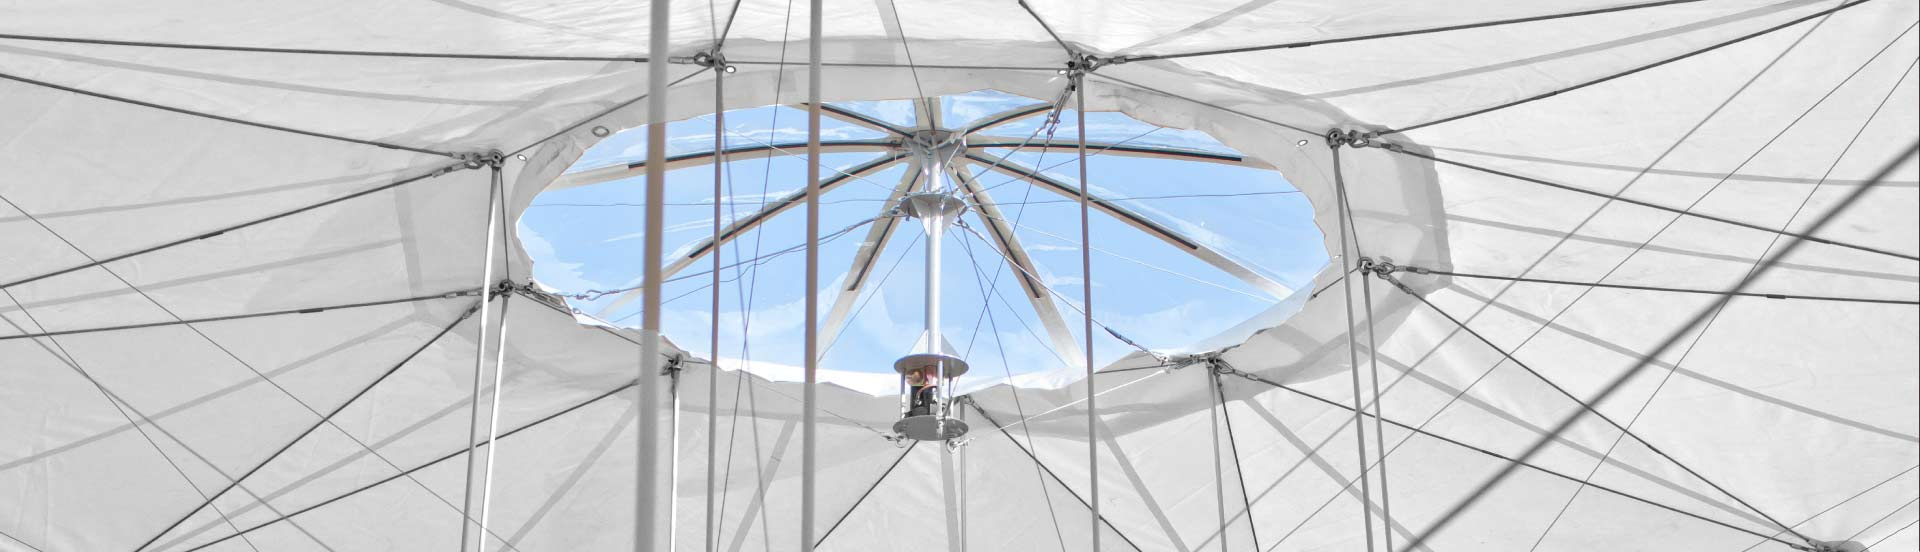
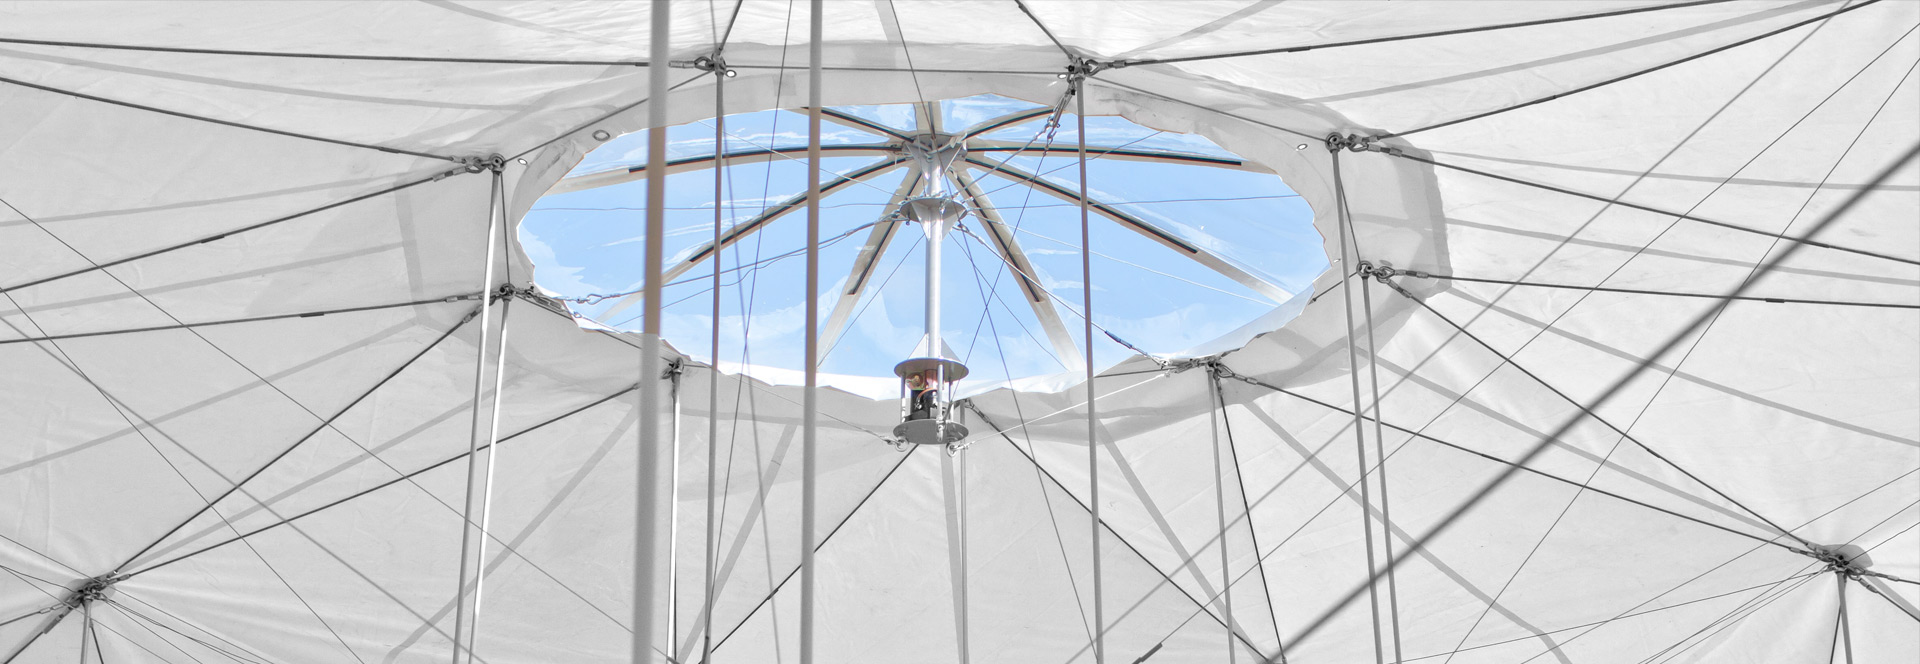
paralax

diff --git a/index.html b/index.html
@@ -4,6 +4,10 @@
     <meta charset="utf-8"/>
     <meta name="viewport" content="width=device-width, initial-scale=1, maximum-scale=1">
 
+    <link rel="icon" type="image/png" href="favicon-64x64.png" sizes="64x64" />
+    <link rel="icon" type="image/png" href="favicon-32x32.png" sizes="32x32" />
+    <link rel="icon" type="image/png" href="favicon-16x16.png" sizes="16x16" />
+
     <link rel="stylesheet" type="text/css" href="./style/bootstrap.min.css"/>
     <link rel="stylesheet" type="text/css" href="./style/main.css"/>
     <script src="./js/jquery.min.js"></script>
@@ -12,7 +16,7 @@
 
 
 <body>
-<header class="background-header" style="background-image: url('./assets/img/front.jpg')">
+<header class="background-header" style="background-image: url('./assets/img/front1.jpg')">
     <div class="header-titles">
         <img src="./assets/img/logo-text-white.png" alt="text-logo">
         <h1 class="h6 mb-0 font-weight-light text-right mt-4">Wynajem namiotów eventowych</h1>
@@ -54,7 +58,19 @@
     <section class="container mt-5">
         <div class="row">
             <div class="col-sm-6">
-                <div class="article-img w-100 h-100" style="background-image: url('./assets/img/glowna1.jpg')"></div>
+                <div id="carouselExampleSlidesOnly" class="carousel slide" data-ride="carousel">
+                    <div class="carousel-inner">
+                        <div class="carousel-item active">
+                            <img class="d-block w-100" src="./assets/img/span1.jpg" alt="First slide">
+                        </div>
+                        <div class="carousel-item">
+                            <img class="d-block w-100" src="./assets/img/span2.jpg" alt="Second slide">
+                        </div>
+                        <div class="carousel-item">
+                            <img class="d-block w-100" src="./assets/img/span3.jpg" alt="Third slide">
+                        </div>
+                    </div>
+                </div>
             </div>
             <article class="col-sm-6">
                 <h6 class="mb-4">HARMONIA GEOMETRII</h6>
@@ -209,6 +225,15 @@
     <span><a href="javascript:void;" id="acceptCookies">Akceptuję</a> politykę cookies. <a href="rodo.html" target="_blank">Link do RODO</a></span>
 </div>
 <script>
+    (function(){
+        window.addEventListener('scroll', function() {
+            var paralaxOne = document.querySelector('.background-header');
+
+            var scrollY = window.scrollY;
+            paralaxOne.style.backgroundPositionY = (scrollY / 10 ) + 'px';
+        });
+    }());
+
     const cookiesAccepted = localStorage.getItem('cookies');
     if (cookiesAccepted) {
         $('#cookiesBox').hide()

diff --git a/page3.html b/page3.html
@@ -12,7 +12,7 @@
 
 
 <body>
-<header class="background-header" style="background: url('./assets/img/front2.jpg')"></header>
+<header class="background-header" style="background-image: url('./assets/img/front2.jpg')"></header>
 <div class="nav-border sticky-top">
     <div class="container mb-0">
         <nav class="navbar navbar-expand-lg navbar-light sticky-top">
@@ -182,17 +182,6 @@
 <div id="cookiesBox">
     <span><a href="javascript:void;" id="acceptCookies">Akceptuję</a> politykę cookies. <a href="rodo.html" target="_blank">Link do RODO</a></span>
 </div>
-<script>
-    const cookiesAccepted = localStorage.getItem('cookies');
-    if (cookiesAccepted) {
-        $('#cookiesBox').hide()
-    }
-
-    $('#acceptCookies').click(() => {
-        localStorage.setItem('cookies', 'true');
-        $('#cookiesBox').hide()
-    })
-</script>
 <footer class="footer d-none d-sm-block">
     <div class="container-fluid">
         <div class="row">
@@ -208,6 +197,13 @@
     </div>
 </footer>
 <script>
+    (function(){
+        window.addEventListener('scroll', function() {
+            var paralaxOne = document.querySelector('.background-header');
+            var scrollY = window.scrollY;
+            paralaxOne.style.backgroundPositionY = (scrollY / 10 ) + 'px';
+        });
+    }());
     const cookiesAccepted = localStorage.getItem('cookies');
     if (cookiesAccepted) {
         $('#cookiesBox').hide()
@@ -223,6 +219,7 @@
         const size = $(e.target).data('size')
         messageInput.val(`Interesuje mnie namiot o wymiarze ${size}.`)
     })
+
 </script>
 </body>
 </html>

diff --git a/page2.html b/page2.html
@@ -12,7 +12,7 @@
 
 
 <body>
-<header class="background-header" style="background-image: url('./assets/img/frontwynajem.jpg')">
+<header class="background-header" style="background-image: url('./assets/img/front3.jpg')">
 
 </header>
 <div class="nav-border sticky-top">
@@ -288,6 +288,13 @@
     </div>
 </footer>
 <script>
+    (function(){
+        window.addEventListener('scroll', function() {
+            var paralaxOne = document.querySelector('.background-header');
+            var scrollY = window.scrollY;
+            paralaxOne.style.backgroundPositionY = (scrollY / 10 ) + 'px';
+        });
+    }());
     const cookiesAccepted = localStorage.getItem('cookies');
     if (cookiesAccepted) {
         $('#cookiesBox').hide()
@@ -300,7 +307,7 @@
 
     const messageInput = $('#message');
     $('.rent-btn').click((e) => {
-        const size = $(e.target).data('size')
+        const size = $(e.target).data('size');
         messageInput.val(`Interesuje mnie namiot o wymiarze ${size}.`)
     })
 </script>

diff --git a/style/main.css b/style/main.css
@@ -28,7 +28,7 @@ body .background-header {
   height: 540px;
   background-repeat: no-repeat;
   background-size: cover;
-  background-position: center center;
+  background-position-x: center;
   position: relative;
 }
 body .background-header .header-titles {

diff --git a/style/main.sass b/style/main.sass
@@ -30,7 +30,7 @@ body
     height: 540px
     background-repeat: no-repeat
     background-size: cover
-    background-position: center center
+    background-position-x: center
     position: relative
     .header-titles
       position: absolute
